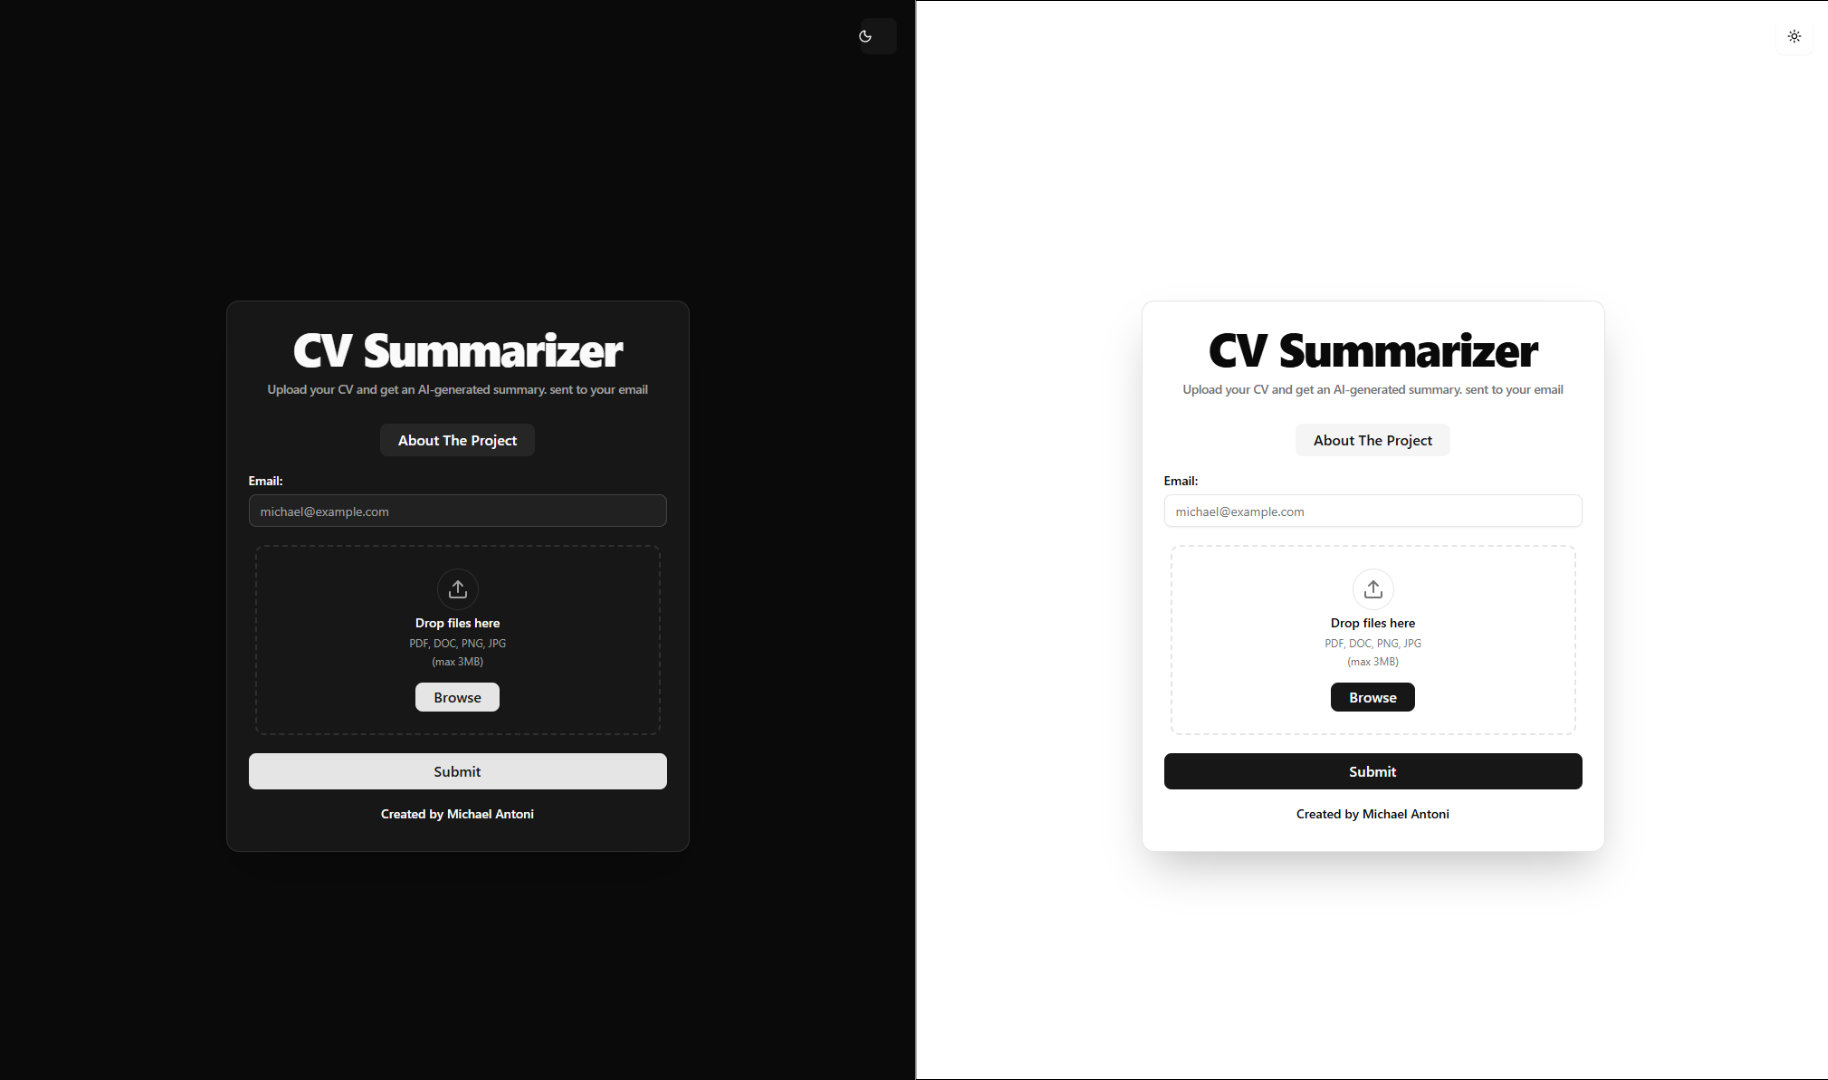
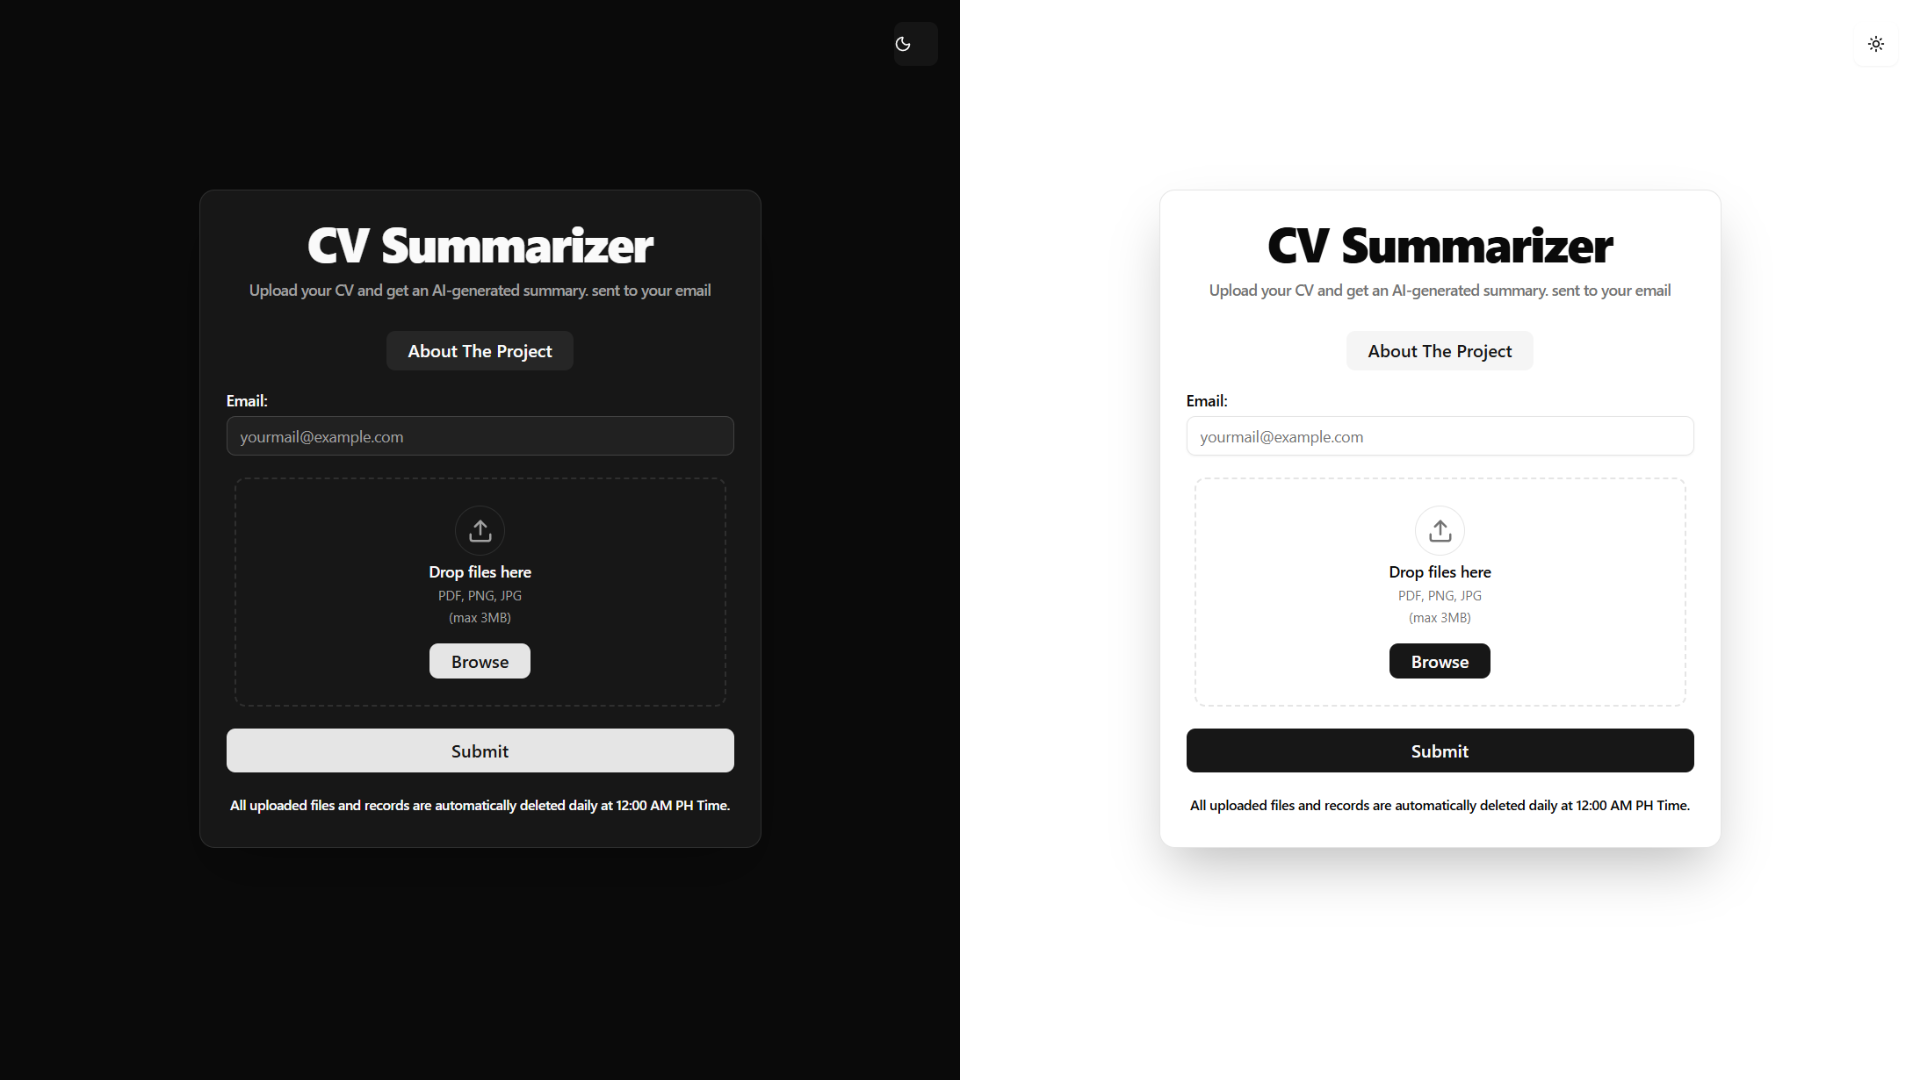
update minimal ui classes, and update the image02 screenshot

diff --git a/frontend/src/components/custom/MainCard.tsx b/frontend/src/components/custom/MainCard.tsx
@@ -141,7 +141,7 @@ export default function MainCard() {
         setEmail("");
         setFiles([]);
         toast.success(
-          "Uploaded successfully.You will receive an Email shortly.",
+          "Uploaded successfully.You will receive an email shortly.",
           {
             toastId: uuidv4(), // prevent duplicates
             position: "top-center",
@@ -167,7 +167,7 @@ export default function MainCard() {
   return (
     <>
       <div className="flex justify-center items-center min-h-screen lg:p-5 md:p-2">
-        <Card className="w-full max-w-lg shadow-2xl sm:mx-10 mx-3 mt-5">
+        <Card className="w-full max-w-lg shadow-2xl sm:mx-10 mx-3 mb-40">
           <CardHeader>
             <CardTitle className="text-center">
               <h1
@@ -201,7 +201,7 @@ export default function MainCard() {
                     type="email"
                     value={email}
                     onChange={(e) => setEmail(e.target.value)}
-                    placeholder="michael@example.com"
+                    placeholder="yourmail@example.com"
                     required
                   />
                 </div>
@@ -232,7 +232,7 @@ export default function MainCard() {
           <div className="flex justify-center -mt-1 px-3">
             <small className="scroll-m-20 text-md font-semibold tracking-tight text-center">
               All uploaded files and records are automatically deleted daily at
-              12:00 AM UTC.
+              12:00 AM PH Time.
             </small>
             <br />
           </div>

diff --git a/frontend/src/App.tsx b/frontend/src/App.tsx
@@ -5,7 +5,7 @@ import { ThemeProvider } from "./components/theme-provider";
 function App() {
   return (
     <ThemeProvider defaultTheme="dark" storageKey="vite-ui-theme">
-      <div className="flex justify-end sm:pt-5 sm:pr-5 pr-3 pt-3">
+      <div className="flex justify-end sm:pt-5 sm:pr-5 pr-3 pt-3 mb-8">
         <ModeToggle />
       </div>
       <MainCard />
